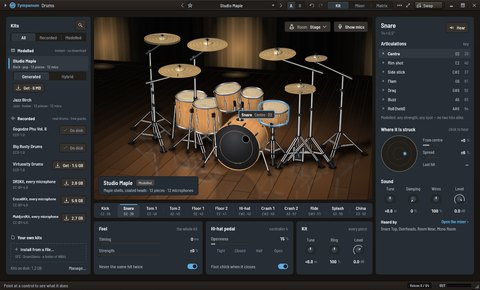
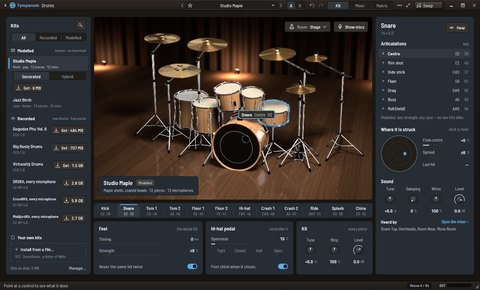
fix/final-d: Chorda's and Tympanum's pictures Photographic from a clean install (interim, before fix/final-e's UI fix) — shoot_skins draws the scenes with the photographic renderer (the owner's choice for the site; --drawn for the app's default), baked on the painting thread at rest (never a quick b

diff --git a/web/src/units_data.rs b/web/src/units_data.rs
@@ -164,7 +164,7 @@ pub const INSTRUMENTS: [Unit; 10] = [
         name: "Chorda",
         kind: ("Modelled grand piano", "Piano de cola modelado"),
         pitch: ("A grand piano played from its physics — strings, felt hammers, a soundboard, half pedalling — or a recorded piano with its own mixer.", "Un piano de cola tocado desde su física — cuerdas, martillos de fieltro, tabla armónica, medio pedal — o un piano grabado con su propio mezclador."),
-        what: long!(("Chorda plays a grand piano from a physical model: each key's one to three strings struck by a felt hammer, meeting at a yielding bridge and ringing into a soundboard, with the other strings ringing in sympathy as their dampers allow. No sample excites anything; its numbers come from published measurements. It also plays recorded pianos — the Salamander Grand, bitKlavier's microphone images, Accurate-Salamander, two uprights, or your own SFZ, Decent Sampler or SF2 — each microphone and noise a named output in its own mixer, one click from a strip of its own, and the model's perspectives too. Its window is the piano in its room, drawn and lit: the lid that opens, the microphones where they stand, the room chosen from a chip.", "Chorda toca un piano de cola desde un modelo físico: las una a tres cuerdas de cada tecla golpeadas por un martillo de fieltro, unidas en un puente que cede y resonando en una tabla armónica, mientras las demás cuerdas vibran por simpatía según lo permitan sus apagadores. Ninguna muestra excita nada; sus valores vienen de mediciones publicadas. También toca pianos grabados — el Salamander Grand, las imágenes de micrófono de bitKlavier, Accurate-Salamander, dos verticales, o tu propio SFZ, Decent Sampler o SF2 — cada micrófono y ruido una salida con nombre en su propio mezclador, a un clic de un canal propio, y también las perspectivas del modelo. Su ventana es el piano en su sala, dibujado e iluminado: la tapa que se abre, los micrófonos donde están, la sala elegida desde un chip.")),
+        what: long!(("Chorda plays a grand piano from a physical model: each key's one to three strings struck by a felt hammer, meeting at a yielding bridge and ringing into a soundboard, with the other strings ringing in sympathy as their dampers allow. No sample excites anything; its numbers come from published measurements. It also plays recorded pianos — the Salamander Grand, bitKlavier's microphone images, Accurate-Salamander, two uprights, or your own SFZ, Decent Sampler or SF2 — each microphone and noise a named output in its own mixer, one click from a strip of its own, and the model's perspectives too. Its window is the piano in its room — drawn by default, photographic if you choose: the lid that opens, the microphones where they stand, the room chosen from a chip.", "Chorda toca un piano de cola desde un modelo físico: las una a tres cuerdas de cada tecla golpeadas por un martillo de fieltro, unidas en un puente que cede y resonando en una tabla armónica, mientras las demás cuerdas vibran por simpatía según lo permitan sus apagadores. Ninguna muestra excita nada; sus valores vienen de mediciones publicadas. También toca pianos grabados — el Salamander Grand, las imágenes de micrófono de bitKlavier, Accurate-Salamander, dos verticales, o tu propio SFZ, Decent Sampler o SF2 — cada micrófono y ruido una salida con nombre en su propio mezclador, a un clic de un canal propio, y también las perspectivas del modelo. Su ventana es el piano en su sala — dibujado por defecto, fotográfico si lo eliges: la tapa que se abre, los micrófonos donde están, la sala elegida desde un chip.")),
         features: long!(&[
             ("Worst partial within 0.5 cent on the rendered sound, across all 88 keys", "Peor parcial a menos de 0.5 cent en el sonido renderizado, en las 88 teclas"),
             ("Continuous sustain pedal with half-pedalling; the soft pedal shifts the hammers", "Pedal de sustain continuo con medio pedal; el pedal suave desplaza los martillos"),
@@ -190,7 +190,7 @@ pub const INSTRUMENTS: [Unit; 10] = [
         what: long!(("Tympanum is Cantus's acoustic drummer, grown from Pulsus's engine. Its modelled kits — Studio Maple, and Jazz Birch measured off a public-domain recording — play at once, with nothing to download: modal voices heard through virtual microphones you move by pattern, distance and aim, where they stand in the picture of the kit in its room. Each hit is one draw shared by every microphone, so the kick, the overheads and the room agree; a bleed matrix sets how much of each piece each microphone hears, and each microphone goes to a strip of its own in one click. The hi-hat opens continuously on CC4. A Hybrid voice plays recorded attacks under the model, and six recorded multi-mic kits stream from disk, in their own room or in Cantus's — both downloaded on demand.", "Tympanum es la batería acústica de Cantus, crecida desde el motor de Pulsus. Sus baterías modeladas — Studio Maple, y Jazz Birch medida sobre una grabación de dominio público — suenan al instante, sin nada que descargar: voces modales escuchadas por micrófonos virtuales que mueves por patrón, distancia y orientación, donde están en la imagen de la batería en su sala. Cada golpe es un mismo sorteo para todos los micrófonos, así el bombo, los aéreos y la sala coinciden; una matriz de fugas fija cuánto oye cada micrófono de cada pieza, y cada micrófono va a un canal propio con un clic. El charles se abre de forma continua con el CC4. Una voz Híbrida toca ataques grabados bajo el modelo, y seis baterías grabadas con varios micrófonos se leen desde el disco, en su propia sala o en las de Cantus — ambas se descargan cuando las pides.")),
         features: long!(&[
             ("Two modelled kits, instant, no download; their microphones moved by pattern, distance and aim", "Dos baterías modeladas, al instante, sin descarga; sus micrófonos se mueven por patrón, distancia y orientación"),
-            ("The kit in its room, drawn and lit: click a piece to play it, drag a microphone where it stands", "La batería en su sala, dibujada e iluminada: haz clic en una pieza para tocarla, arrastra un micrófono a su sitio"),
+            ("The kit in its room, drawn or photographic: click a piece to play it, drag a microphone where it stands", "La batería en su sala, dibujada o fotográfica: haz clic en una pieza para tocarla, arrastra un micrófono a su sitio"),
             ("A bleed matrix: how much of each piece every microphone hears, cell by cell", "Una matriz de fugas: cuánto oye cada micrófono de cada pieza, celda a celda"),
             ("Each microphone to a strip of its own in one click; one draw per hit shared by every mic", "Cada micrófono a un canal propio con un clic; un mismo sorteo por golpe para todos los micrófonos"),
             ("A Hybrid voice and six recorded multi-mic kits, downloaded on demand, streamed from disk", "Una voz Híbrida y seis baterías grabadas con varios micrófonos, descargadas a petición, leídas desde el disco"),

diff --git a/crates/cantus-ui/examples/shoot_skins.rs b/crates/cantus-ui/examples/shoot_skins.rs
@@ -13,6 +13,10 @@
 //! - `--gallery`: the kit's skin sheets (every material, display look, knob and switch
 //!   shape, plate and the ornaments) in both themes at 2×, `gallery-<sheet>-<theme>.png`.
 //! - `--quick`: Slate at 100 % only.
+//! - `--drawn`: Chorda's and Tympanum's pictures *Drawn* (projected vectors, the app's
+//!   default); without it they are *Photographic* (ADR 0126), as the site and README show them.
+//! - The shots see a clean install: `CANTUS_DATA_DIR` is an empty folder of their own unless
+//!   it is set, so no pack this machine downloaded shows as on disk.
 //! - `--es`: the editors in Spanish (same file names: give another out-dir).
 //! - `--try <sample>`: every unit shot wears one of the sample sheets below instead of its
 //!   own (`studio`: FabFilter-like matte with value rings; `vintage`: wood, a VU-era
@@ -412,6 +416,13 @@ fn shoot_gallery(dir: &Path) {
 
 fn main() {
     let args: Vec<String> = std::env::args().skip(1).collect();
+    // fix/final-d — a clean install's state: no pack this machine downloaded shows as on disk.
+    if std::env::var_os("CANTUS_DATA_DIR").is_none() {
+        let clean = std::env::temp_dir().join("cantus-shoot-skins-data");
+        let _ = std::fs::remove_dir_all(&clean);
+        std::fs::create_dir_all(&clean).expect("a clean data folder");
+        std::env::set_var("CANTUS_DATA_DIR", &clean);
+    }
     let flag = |f: &str| args.iter().any(|a| a == f);
     // `--es`: the editors in Spanish (the site's Spanish pages show these).
     cantus_ui::i18n::set_locale(if flag("--es") {
@@ -428,6 +439,12 @@ fn main() {
     // Chorda's scene bakes on the painting thread here: a shot cannot wait for the worker,
     // and without it the piano's picture is an empty card (round 38: the site showed one).
     views::inst::chorda::scene::set_blocking(true);
+    // fix/final-d — the instruments' pictures Photographic (the owner's choice for the site),
+    // baked on the painting thread like the drawn ones, so a shot never waits on a worker.
+    if !flag("--drawn") {
+        views::inst::chorda::scene::hybrid::register();
+        cantus_ui::scene::backend::set_default(cantus_ui::scene::SceneBackend::PerPixel);
+    }
     if flag("--gallery") {
         shoot_gallery(&dir);
         if only.is_empty() {
